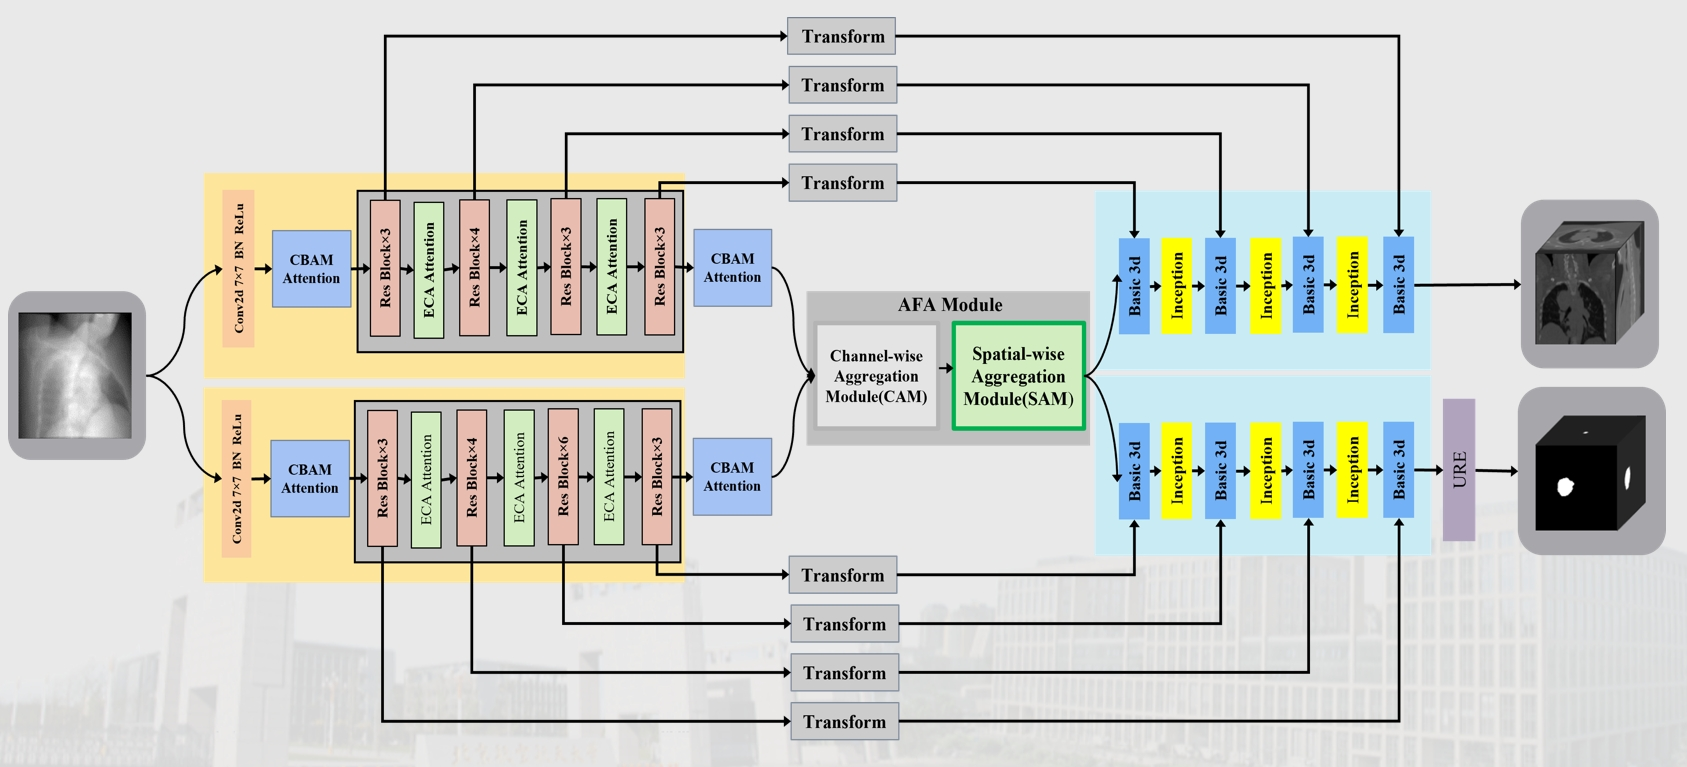
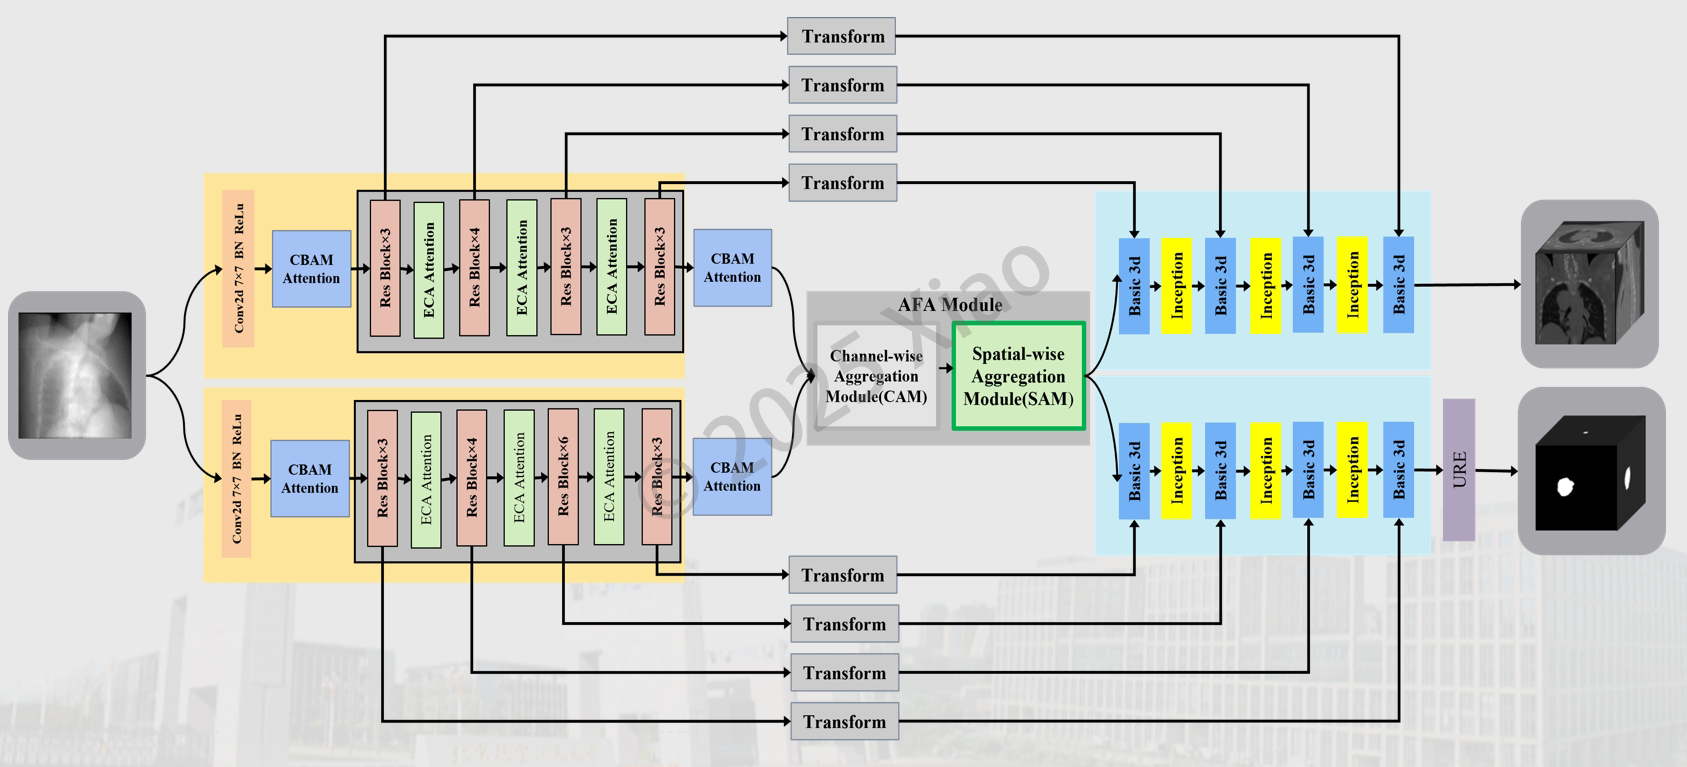
Add waterprint for pictures

diff --git a/_pages/about.md b/_pages/about.md
@@ -40,23 +40,40 @@ Our work on **Automatic planning for head and neck seed implant brachytherapy** 
 
 ### Treatment Planning System (TPS) Interface
 
-I have also developed **Treatment Planning Systems (TPS)** for brachytherapy and tumor ablation, featuring modules for needle trajectory planning, dose optimization, and 3D visualization.
+I have also developed **Treatment Planning Systems (TPS)** for brachytherapy and tumor ablation, incorporating modules for automatic organ and tumor segmentation, needle trajectory planning, dose optimization, and 3D visualization. Several of these systems have been successfully translated into clinical use.
 
 <figure>
-  <img src="/images/tps_interface.png" alt="Treatment Planning System Interface1">
-  <figcaption>Figure 1. <a href="https://www.bjthkl.com/" target="_blank">Seed Implant Brachytherapy TPS</a> Interface: Segmentation Page</figcaption>
+  <img src="/images/tps/tps_seg.png" alt="Treatment Planning System ManualSeg">
+  <figcaption>Figure 1. <a href="https://www.bjthkl.com/" target="_blank">Seed Implant Brachytherapy TPS</a> Interface: Manual Segmentation Page</figcaption>
 </figure>
 
 <figure>
-  <img src="/images/tps_plan.png" alt="Treatment Planning System Interface2">
-  <figcaption>Figure 2. <a href="https://www.bjthkl.com/" target="_blank">Seed Implant Brachytherapy TPS</a> Interface: Planning Page</figcaption>
+  <img src="/images/tps/tps_autoseg.png" alt="Treatment Planning System AutoSeg">
+  <figcaption>Figure 2. <a href="https://www.bjthkl.com/" target="_blank">Seed Implant Brachytherapy TPS</a>: Automatic Segmentation Page, Integrated automatic segmentation algorithms for tumors and organs-at-risk (OARs) across different anatomical sites, including both traditional image processing techniques and deep learning methods.</figcaption>
 </figure>
 
 <figure>
-  <img src="/images/eco_tps.png" alt="MWA TPS Interface">
+  <img src="/images/tps/tps_plan.png" alt="Treatment Planning System Planning">
+  <figcaption>Figure 3. <a href="https://www.bjthkl.com/" target="_blank">Seed Implant Brachytherapy TPS</a> Interface: Planning Page</figcaption>
+</figure>
+
+<figure>
+  <img src="/images/tps/tps_seed_picking.png" alt="Treatment Planning System Post">
+  <figcaption>Figure 4. <a href="https://www.bjthkl.com/" target="_blank">Seed Implant Brachytherapy TPS</a> Interface: A postoperative validation interface that automatically detects implanted seeds and reconstructs the corresponding postoperative dose distribution.</figcaption>
+</figure>
+
+<figure>
+  <img src="/images/tps/eco_tps.png" alt="MWA TPS Interface">
   <figcaption>
-    Figure 3. MWA TPS Interface, developed in collaboration with 
+    Figure 5. MWA TPS Interface, developed in collaboration with 
     <a href="https://www.njeco.cn/" target="_blank">ECO Medical (Nanjing)</a>.
+  </figcaption>
+</figure>
+
+<figure>
+  <img src="/images/tps/nanoKnife.png" alt="NanoKife TPS Interface">
+  <figcaption>
+    Figure 6. Irreversible Electroporation TPS Interface</a>.
   </figcaption>
 </figure>
 
